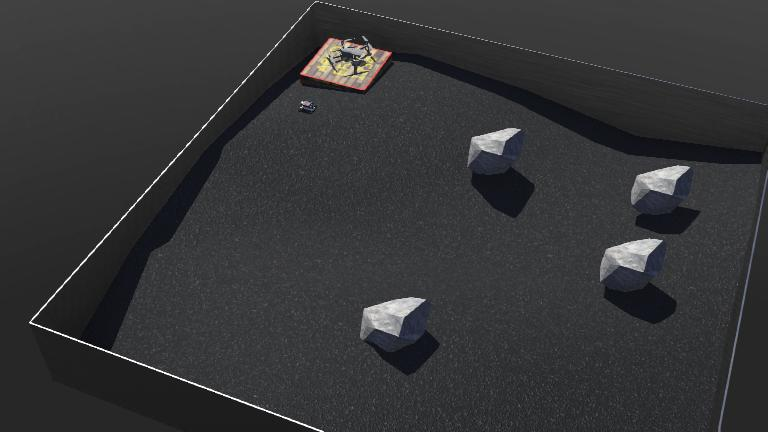
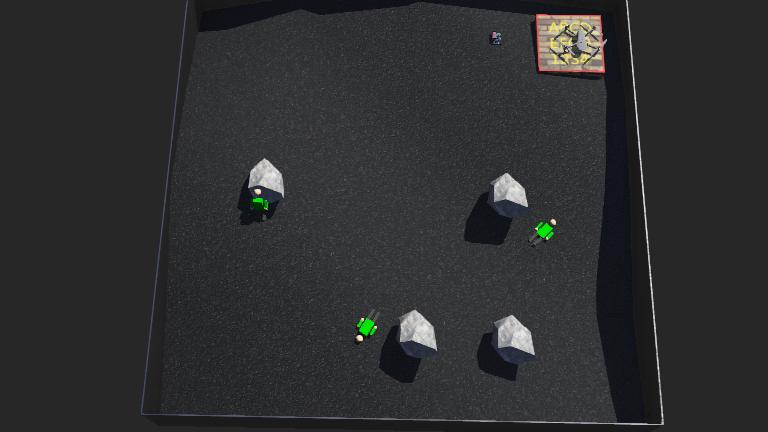
Added victim detection and tagging along with coordinate emission logic

diff --git a/controllers/mavic2pro/mavic2pro.c b/controllers/mavic2pro/mavic2pro.c
@@ -1,6 +1,7 @@
 #include <math.h>
 #include <stdio.h>
 #include <stdlib.h>
+#include <string.h>
 
 #include <webots/robot.h>
 
@@ -12,8 +13,14 @@
 #include <webots/keyboard.h>
 #include <webots/led.h>
 #include <webots/motor.h>
+#include <webots/supervisor.h>
+#include <webots/emitter.h>
+
 
 #define CLAMP(value, low, high) ((value) < (low) ? (low) : ((value) > (high) ? (high) : (value)))
+
+#define NUM_VICTIMS 3
+const char *victim_defs[NUM_VICTIMS] = {"victim1", "victim2", "victim3"};
 
 int main(int argc, char **argv) {
   wb_robot_init();
@@ -48,6 +55,9 @@ int main(int argc, char **argv) {
     wb_motor_set_position(motors[m], INFINITY);
     wb_motor_set_velocity(motors[m], 1.0);
   }
+  
+  WbDeviceTag emitter = wb_robot_get_device("emitter");
+  wb_emitter_set_channel(emitter, 1);
 
  // Constants, empirically found.
   const double k_vertical_thrust = 68.5;  // with this thrust, the drone lifts.
@@ -143,7 +153,43 @@ int main(int argc, char **argv) {
       } else {
         printf("Final waypoint reached. Holding position.\n");
       }
-    }  
+      
+    // Victim Detection and Tagging
+    const unsigned char *image = wb_camera_get_image(camera);
+    if (image != NULL) {
+      int width = wb_camera_get_width(camera);
+      int height = wb_camera_get_height(camera);
+
+      for (int v = 0; v < NUM_VICTIMS; v++) {
+        WbNodeRef victim = wb_supervisor_node_get_from_def(victim_defs[v]);
+        if (!victim) continue;
+
+        const double *pos = wb_supervisor_node_get_position(victim);
+
+        // Detecting green
+        int r = wb_camera_image_get_red(image, width/2, height/2, width);
+        int g = wb_camera_image_get_green(image, width/2, height/2, width);
+        int b = wb_camera_image_get_blue(image, width/2, height/2, width);
+
+        if (g > 200 && r < 50 && b < 50) {  // green detected
+          // Tag victim by changing shirt to red
+          WbFieldRef appearance = wb_supervisor_node_get_field(victim, "appearance");
+          WbNodeRef app_node = wb_supervisor_field_get_sf_node(appearance);
+          WbFieldRef color_field = wb_supervisor_node_get_field(app_node, "baseColor");
+          double red[3] = {1, 0, 0};
+          wb_supervisor_field_set_sf_color(color_field, red);
+
+          // Sending coordinates to ground robot
+          char message[128];
+          sprintf(message, "Victim tagged at: %f %f %f", pos[0], pos[1], pos[2]);
+          wb_emitter_send(emitter, message, strlen(message)+1);
+          printf("Tagged and sent: %s\n", message);
+        }
+      }
+    }
+    
+    
+      
   };
 
   wb_robot_cleanup();

diff --git a/controllers/surveyor/surveyor.c b/controllers/surveyor/surveyor.c
@@ -151,6 +151,9 @@ int main(int argc, char **argv) {
   wb_compass_enable(compass, timeStep);
   wb_camera_enable(camera, timeStep);
   
+  WbDeviceTag receiver = wb_robot_get_device("receiver");  
+  wb_receiver_enable(receiver, timeStep);
+  
   wb_motor_set_position(leftMotor, INFINITY);
   wb_motor_set_position(rightMotor, INFINITY);
   
@@ -175,6 +178,15 @@ int main(int argc, char **argv) {
       int b = wb_camera_image_get_blue(image, width/2, height/2, width);
       printf("Camera pixel = R:%d G:%d B:%d\n", r, g, b);
     }
+    
+    // Check for incoming messages from the drone
+      while (wb_receiver_get_queue_length(receiver) > 0) {
+        const char *message = (const char *)wb_receiver_get_data(receiver);
+        double x, y;
+        sscanf(message, "%lf,%lf", &x, &y);
+        printf("Received victim coordinates: x=%.2f, y=%.2f\n", x, y)
+        wb_receiver_next_packet(receiver); 
+      }
   }
 
   wb_robot_cleanup();
